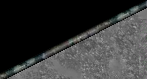
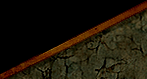
new B4-skin

diff --git a/trunk/client/src/interface.c b/trunk/client/src/interface.c
@@ -1469,7 +1469,7 @@ void show_interface_npc(int mark)
     int x=gui_interface_npc->startx, y=gui_interface_npc->starty, numButton=0,yoff, i;
 
     sprite_blt(Bitmaps[BITMAP_NPC_INTERFACE], x, y, NULL, NULL);
-    add_close_button(x-113, y+4, MENU_NPC);
+    add_close_button(x-111, y+9, MENU_NPC);
 
     if (gui_interface_npc->used_flag&GUI_INTERFACE_HEAD)
     {
@@ -1477,14 +1477,14 @@ void show_interface_npc(int mark)
         /*sprintf(xxbuf, "%s (%d,%d)", keyword?keyword:"--", mx, my);
         StringBlt(ScreenSurface,&MediumFont , xxbuf, x+75, y+48, COLOR_WHITE, NULL, NULL);
         */
-        StringBlt(ScreenSurface,&MediumFont , gui_interface_npc->head.body_text, x+75, y+48, COLOR_WHITE, NULL, NULL);
+        StringBlt(ScreenSurface,&MediumFont , gui_interface_npc->head.body_text, x+80, y+50, COLOR_WHITE, NULL, NULL);
 
         if (gui_interface_npc->head.face>=0 && FaceList[gui_interface_npc->head.face].sprite != NULL)
         {
             int xp, yp;
 
-            box.x=x+4;
-            box.y=y+4;
+            box.x=x+8;
+            box.y=y+8;
             box.w=54;
             box.h=54;
 
@@ -1520,7 +1520,7 @@ void show_interface_npc(int mark)
     box.h=INTERFACE_WINLEN_NPC;
 
     blt_window_slider(Bitmaps[BITMAP_NPC_INT_SLIDER], gui_interface_npc->win_length, INTERFACE_WINLEN_NPC,
-                      gui_interface_npc->yoff*-1, -1, x + 340, y + 90);
+                      gui_interface_npc->yoff*-1, -1, x + 345, y + 94);
 
     SDL_SetClipRect(ScreenSurface, &box);
     /*SDL_FillRect(ScreenSurface, &box, 3);*/
@@ -1793,7 +1793,7 @@ void show_interface_npc(int mark)
     if (gui_interface_npc->used_flag&GUI_INTERFACE_ACCEPT)
     {
 
-        if (add_button(x + 35, y + 443, numButton++, BITMAP_DIALOG_BUTTON_UP,
+        if (add_button(x + 35, y + 448, numButton++, BITMAP_DIALOG_BUTTON_UP,
                        gui_interface_npc->accept.title, gui_interface_npc->accept.title2))
         {
             int ekey=-1;
@@ -1895,7 +1895,7 @@ void show_interface_npc(int mark)
 
         if (gui_interface_npc->used_flag&GUI_INTERFACE_DECLINE)
         {
-            if (add_button(x + 285, y + 443, numButton++, BITMAP_DIALOG_BUTTON_UP,
+            if (add_button(x + 285, y + 448, numButton++, BITMAP_DIALOG_BUTTON_UP,
                            gui_interface_npc->decline.title, gui_interface_npc->decline.title2))
             {
                 int ekey=-1;
@@ -1992,18 +1992,18 @@ void show_interface_npc(int mark)
     if (gui_interface_npc->who.body[0] != 'Q')
     {
         box.x = x + 95;
-        box.y = y+449;
+        box.y = y+453;
         box.h = 12;
         box.w = 180;
         if (gui_interface_npc->input_flag)
         {
-            StringBlt(ScreenSurface, &SystemFont, "~Return~ to send, ~ESC~ to cancel", x+130, y+437, COLOR_WHITE, NULL, NULL);
+            StringBlt(ScreenSurface, &SystemFont, "~Return~ to send, ~ESC~ to cancel", x+119, y+441, COLOR_WHITE, NULL, NULL);
             SDL_FillRect(ScreenSurface, &box, 0);
             StringBlt(ScreenSurface, &MediumFont, show_input_string(InputString, &MediumFont,box.w-10),box.x+5 ,box.y, COLOR_WHITE, NULL, NULL);
         }
         else
         {
-            StringBlt(ScreenSurface, &SystemFont, "~Return~ to talk", x+155, y+437, COLOR_WHITE, NULL, NULL);
+            StringBlt(ScreenSurface, &SystemFont, "~Return~ to talk", x+155, y+441, COLOR_WHITE, NULL, NULL);
 
             if (gui_interface_npc->link_selected)
             {
@@ -2076,14 +2076,14 @@ void gui_interface_mouse(SDL_Event *e)
     mx = mxr-gui_interface_npc->startx;
     my = myr-gui_interface_npc->starty;
 
-    if (mx >= 345 && mx <= 354 && my >=32 && my <= 41) // close button
+    if (mx >= 349 && mx <= 358 && my >=36 && my <= 45) // close button
     {
         sound_play_effect(SOUND_SCROLL, 0, 0, 100);
         reset_gui_interface();
     }
-    else if (mx >= 339 && mx <= 350) // scroll buttons
+    else if (mx >= 344 && mx <= 355) // scroll buttons
     {
-        if (my >=73 && my <= 84) // scroll up
+        if (my >=79 && my <= 90) // scroll up
         {
             gui_interface_npc->yoff +=12;
             if (gui_interface_npc->yoff < INTERFACE_WINLEN_NPC-gui_interface_npc->win_length)
@@ -2095,7 +2095,7 @@ void gui_interface_mouse(SDL_Event *e)
                 gui_interface_npc->yoff=0;
             }
         }
-        else if (my >=428 && my <= 437) // scroll down
+        else if (my >=432 && my <= 441) // scroll down
         {
             gui_interface_npc->yoff -=12;
             if (gui_interface_npc->yoff < INTERFACE_WINLEN_NPC-gui_interface_npc->win_length)
@@ -2109,7 +2109,7 @@ void gui_interface_mouse(SDL_Event *e)
         }
         return;
     }
-    else if (mx >= 95 && mx <= 275 && my >= 449 && my <= 461) // textfield
+    else if (mx >= 95 && mx <= 275 && my >= 453 && my <= 465) // textfield
     {
         if (!gui_interface_npc->input_flag)
             check_menu_keys(MENU_NPC, SDLK_RETURN);

diff --git a/trunk/client/src/dialog.c b/trunk/client/src/dialog.c
@@ -251,17 +251,14 @@ char * get_value(void *value, int type)
 void add_close_button(int x, int y, int menu)
 {
     int mx, my, mb;
-
     mb = SDL_GetMouseState(&mx, &my) & SDL_BUTTON(SDL_BUTTON_LEFT);
-    StringBlt(ScreenSurface, &SystemFont, "X", x + 463, y + 28, COLOR_BLACK, NULL, NULL);
-    if (mx > x + 459 && mx <x + 469 && my> y + 27 && my < y + 39)
+    if (mx > x + 460 && mx <x + 474 && my> y + 26 && my < y + 40)
     {
-        StringBlt(ScreenSurface, &SystemFont, "X", x + 462, y + 27, COLOR_HGOLD, NULL, NULL);
+        sprite_blt(Bitmaps[BITMAP_CLOSEBUTTON], x+463, y+28, NULL,NULL);
         if (mb && mb_clicked)
             check_menu_keys(menu, SDLK_ESCAPE);
     }
-    else
-        StringBlt(ScreenSurface, &SystemFont, "X", x + 462, y + 27, COLOR_WHITE, NULL, NULL);
+
 }
 
 /******************************************************************
@@ -419,7 +416,7 @@ int add_rangebox(int x, int y, int id, int text_w, int text_x, char *text, int c
     box.y = y + 1;
     box.w = text_w + 2;
     box.h = 16;
-    SDL_FillRect(ScreenSurface, &box, sdl_gray1);
+    SDL_FillRect(ScreenSurface, &box, 0);
     StringBlt(ScreenSurface, &SystemFont, text, text_x + 1, y + 3, COLOR_BLACK, NULL, NULL);
     StringBlt(ScreenSurface, &SystemFont, text, text_x, y + 2, color, NULL, NULL);
 
@@ -808,9 +805,9 @@ void show_skilllist(void)
         if (i != skill_list_set.entry_nr)
         {
             if (i & 1)
-                SDL_FillRect(ScreenSurface, &box, sdl_gray2);
+                SDL_FillRect(ScreenSurface, &box, SDL_MapRGB(ScreenSurface->format, 67, 57, 30));
             else
-                SDL_FillRect(ScreenSurface, &box, sdl_gray1);
+                SDL_FillRect(ScreenSurface, &box, SDL_MapRGB(ScreenSurface->format, 57, 59, 39));
         }
         else
             SDL_FillRect(ScreenSurface, &box, sdl_blue1);
@@ -966,9 +963,9 @@ void show_spelllist(void)
         if (i != spell_list_set.entry_nr)
         {
             if (i & 1)
-                SDL_FillRect(ScreenSurface, &box, sdl_gray2);
+                SDL_FillRect(ScreenSurface, &box, SDL_MapRGB(ScreenSurface->format, 67, 57, 30));
             else
-                SDL_FillRect(ScreenSurface, &box, sdl_gray1);
+                SDL_FillRect(ScreenSurface, &box, SDL_MapRGB(ScreenSurface->format, 57, 59, 39));
         }
         else
             SDL_FillRect(ScreenSurface, &box, sdl_blue1);
@@ -1159,9 +1156,9 @@ void show_keybind()
         if (i != bindkey_list_set.entry_nr)
         {
             if (i & 1)
-                SDL_FillRect(ScreenSurface, &box, sdl_gray2);
+                SDL_FillRect(ScreenSurface, &box, SDL_MapRGB(ScreenSurface->format, 67, 57, 30));
             else
-                SDL_FillRect(ScreenSurface, &box, sdl_gray1);
+                SDL_FillRect(ScreenSurface, &box, SDL_MapRGB(ScreenSurface->format, 57, 59, 39));
         }
         else
             SDL_FillRect(ScreenSurface, &box, sdl_blue1);
@@ -1573,10 +1570,10 @@ void show_login_server(void)
     StringBlt(ScreenSurface, &BigFont, buf, t + 1, y - 21, COLOR_BLACK, NULL, NULL);
     StringBlt(ScreenSurface, &BigFont, buf, t, y - 22, COLOR_HGOLD, NULL, NULL);
 
-    SDL_FillRect(ScreenSurface, &box, sdl_gray3);
+    SDL_FillRect(ScreenSurface, &box, SDL_MapRGB(ScreenSurface->format, 67, 57, 30));
     box.y = y + 15;
     box.h = 150;
-    SDL_FillRect(ScreenSurface, &box, sdl_gray4);
+    SDL_FillRect(ScreenSurface, &box, SDL_MapRGB(ScreenSurface->format, 57, 59, 39));
     StringBlt(ScreenSurface, &SystemFont, "- UPDATING FILES- ", x + 58, y + 1, COLOR_BLACK, NULL, NULL);
     StringBlt(ScreenSurface, &SystemFont, "- UPDATING FILES -", x + 57, y, COLOR_WHITE, NULL, NULL);
     if (request_file_chain >= 0)
@@ -1879,9 +1876,9 @@ void show_meta_server(_server *node, int metaserver_start, int metaserver_sel)
     {
         box.y += 12;
         if (i & 1)
-            SDL_FillRect(ScreenSurface, &box, sdl_gray2);
+            SDL_FillRect(ScreenSurface, &box, SDL_MapRGB(ScreenSurface->format, 67, 57, 30));
         else
-            SDL_FillRect(ScreenSurface, &box, sdl_gray1);
+            SDL_FillRect(ScreenSurface, &box, SDL_MapRGB(ScreenSurface->format, 57, 59, 39));
     }
 
     for (i = 0; node && i < metaserver_start; i++)

diff --git a/trunk/client/src/main.c b/trunk/client/src/main.c
@@ -143,7 +143,7 @@ static _bitmap_name bitmap_name[BITMAP_INIT]    =
         {"food_back.png", PIC_TYPE_DEFAULT}, {"apply.png", PIC_TYPE_DEFAULT},
         {"food2.png", PIC_TYPE_TRANS},
         {"unpaid.png", PIC_TYPE_DEFAULT}, {"cursed.png", PIC_TYPE_DEFAULT}, {"damned.png", PIC_TYPE_DEFAULT},
-        {"lock.png", PIC_TYPE_DEFAULT}, {"magic.png", PIC_TYPE_DEFAULT}, {"range.png", PIC_TYPE_TRANS},
+        {"lock.png", PIC_TYPE_DEFAULT}, {"magic.png", PIC_TYPE_DEFAULT},
         {"range_marker.png", PIC_TYPE_TRANS}, {"range_ctrl.png", PIC_TYPE_TRANS}, {"range_ctrl_no.png", PIC_TYPE_TRANS},
         {"range_skill.png", PIC_TYPE_TRANS}, {"range_skill_no.png", PIC_TYPE_TRANS}, {"range_throw.png", PIC_TYPE_TRANS},
         {"range_throw_no.png", PIC_TYPE_TRANS}, {"range_tool.png", PIC_TYPE_TRANS}, {"range_tool_no.png", PIC_TYPE_TRANS},
@@ -184,14 +184,14 @@ static _bitmap_name bitmap_name[BITMAP_INIT]    =
         {"options_mark_right.png", PIC_TYPE_TRANS}, {"options_alpha.png", PIC_TYPE_DEFAULT},
         {"pentagram.png", PIC_TYPE_DEFAULT}, {"quad_button_up.png", PIC_TYPE_DEFAULT},
         {"quad_button_down.png", PIC_TYPE_DEFAULT}, {"nchar_marker.png", PIC_TYPE_TRANS}, {"traped.png", PIC_TYPE_TRANS},
-        {"pray.png", PIC_TYPE_TRANS}, {"wand.png", PIC_TYPE_TRANS}, {"invite.png", PIC_TYPE_DEFAULT},
+        {"wand.png", PIC_TYPE_TRANS}, {"invite.png", PIC_TYPE_DEFAULT},
         {"dialog_button_black_up.png", PIC_TYPE_DEFAULT},{"dialog_button_black_down.png", PIC_TYPE_DEFAULT},
         {"button_small_up.png", PIC_TYPE_DEFAULT},{"button_small_down.png", PIC_TYPE_DEFAULT},
         {"group_mana.png", PIC_TYPE_DEFAULT},{"group_grace.png", PIC_TYPE_DEFAULT},
         {"group_hp.png", PIC_TYPE_DEFAULT}, {"npc_interface.png", PIC_TYPE_TRANS},{"coin_copper.png", PIC_TYPE_TRANS},
         {"coin_silver.png", PIC_TYPE_TRANS},{"coin_gold.png", PIC_TYPE_TRANS},
         {"coin_mithril.png", PIC_TYPE_TRANS},{"npc_int_slider.png", PIC_TYPE_DEFAULT},
-        {"journal.png", PIC_TYPE_TRANS}, {"invslot_marked.png", PIC_TYPE_TRANS},
+        {"journal.png", PIC_TYPE_TRANS}, {"invslot_marked.png", PIC_TYPE_TRANS}, {"closeb.png", PIC_TYPE_DEFAULT},
     };
 
 #define BITMAP_MAX (sizeof(bitmap_name)/sizeof(struct _bitmap_name))
@@ -1535,7 +1535,6 @@ int main(int argc, char *argv[])
                     show_media(798, 171);
                 }
                 show_range(3, 403);
-                sprite_blt(Bitmaps[BITMAP_PRAY], 92, 412, NULL, NULL);
 
                 if (esc_menu_flag == TRUE
                         || (options.use_TextwinAlpha && (txtwin[TW_MSG].size + txtwin[TW_CHAT].size) > 9))
@@ -1641,7 +1640,7 @@ int main(int argc, char *argv[])
 
         if (show_help_screen_new && GameStatus == GAME_STATUS_PLAY)
         {
-            sprite_blt(Bitmaps[BITMAP_HELP_START] , 799-Bitmaps[BITMAP_HELP_START]->bitmap->w , 0, NULL, NULL);
+            sprite_blt(Bitmaps[BITMAP_HELP_START] , 799-Bitmaps[BITMAP_HELP_START]->bitmap->w-5 , 0, NULL, NULL);
         }
         /* show all kind of the big dialog windows */
         show_menu();

diff --git a/trunk/client/src/inventory.c b/trunk/client/src/inventory.c
@@ -151,7 +151,7 @@ void show_inventory_window(int x, int y)
     invylen = INVITEMYLEN;
 
 
-    sprite_blt(Bitmaps[BITMAP_INVENTORY], x, y, NULL, NULL);
+    sprite_blt(Bitmaps[BITMAP_INVENTORY], x-6, y-7, NULL, NULL);
 
     y += 26;
     blt_window_slider(Bitmaps[BITMAP_INV_SCROLL], ((cpl.win_inv_count - 1) / invxlen) + 1, invylen,
@@ -498,7 +498,7 @@ void examine_range_inv(void)
 
     for (tmp = op->inv; tmp; tmp = tmp->next)
     {
-        if (tmp->applied && (tmp->itype == TYPE_BOW || (tmp->itype == TYPE_ARROW && tmp->stype >= 128) 
+        if (tmp->applied && (tmp->itype == TYPE_BOW || (tmp->itype == TYPE_ARROW && tmp->stype >= 128)
 			|| tmp->itype == TYPE_WAND || tmp->itype == TYPE_ROD || tmp->itype == TYPE_HORN))
             fire_mode_tab[FIRE_MODE_BOW].item = tmp->tag;
 		else if(tmp->applied && tmp->itype == TYPE_ARROW && tmp->stype < 128)

diff --git a/trunk/client/src/group.c b/trunk/client/src/group.c
@@ -98,7 +98,7 @@ void show_group(int x, int y)
             /* sprite_blt(Bitmaps[BITMAP_GROUP], x + group_pos[s][0] + 2, y + group_pos[s][1] + 1, NULL, NULL); */
             if (group[s].name[0] != '\0')
             {
-                sprite_blt(Bitmaps[BITMAP_GROUP], x + group_pos[s][0] + 2, y + group_pos[s][1] + 1, NULL, NULL);
+//                sprite_blt(Bitmaps[BITMAP_GROUP], x + group_pos[s][0] + 2, y + group_pos[s][1] + 1, NULL, NULL);
                 StringBlt(ScreenSurface, &SystemFont, group[s].name, x + group_pos[s][0] + 33, y + group_pos[s][1] + 1,COLOR_DEFAULT, NULL, NULL);
                 sprintf(buf, "%3d", group[s].level);
                 StringBlt(ScreenSurface, &Font6x3Out, buf, x + group_pos[s][0] + 8, y + group_pos[s][1], COLOR_DEFAULT, NULL, NULL);

diff --git a/trunk/client/src/include/main.h b/trunk/client/src/include/main.h
@@ -495,7 +495,6 @@ typedef enum _bitmap_index
     BITMAP_DAMNED,
     BITMAP_LOCK,
     BITMAP_MAGIC,
-    BITMAP_RANGE,
     BITMAP_RANGE_MARKER,
     BITMAP_RANGE_CTRL,
     BITMAP_RANGE_CTRL_NO,
@@ -600,7 +599,6 @@ typedef enum _bitmap_index
     BITMAP_BUTTONQ_DOWN,
     BITMAP_NCHAR_MARKER,
     BITMAP_TRAPED,
-    BITMAP_PRAY,
     BITMAP_WAND,
     BITMAP_GROUP_INVITE,
     BITMAP_BUTTON_BLACK_UP,
@@ -618,6 +616,7 @@ typedef enum _bitmap_index
     BITMAP_NPC_INT_SLIDER,
     BITMAP_JOURNAL,
     BITMAP_INVSLOT_MARKED,
+    BITMAP_CLOSEBUTTON,
     BITMAP_INIT
 }
 _bitmap_index;

diff --git a/trunk/client/src/event.c b/trunk/client/src/event.c
@@ -543,7 +543,7 @@ int Event_PollInputDevice(void)
                     break;
                 }
                 /* IWIN_INV Slider */
-                else if (active_scrollbar == 2 || (cpl.menustatus == MENU_NPC && y >= 136 && y <=474 && x>=561 && x <= 568))
+                else if (active_scrollbar == 2 || (cpl.menustatus == MENU_NPC && y >= 140 && y <=478 && x>=566 && x <= 573))
                 {
                     active_scrollbar = 2;
 

diff --git a/trunk/client/src/menu.c b/trunk/client/src/menu.c
@@ -522,7 +522,7 @@ void show_range(int x, int y)
     rec_item.w = 185;
     examine_range_inv();
 
-    sprite_blt(Bitmaps[BITMAP_RANGE], x - 2, y, NULL, NULL);
+//    sprite_blt(Bitmaps[BITMAP_RANGE], x - 2, y, NULL, NULL);
 
     switch (RangeFireMode)
     {
